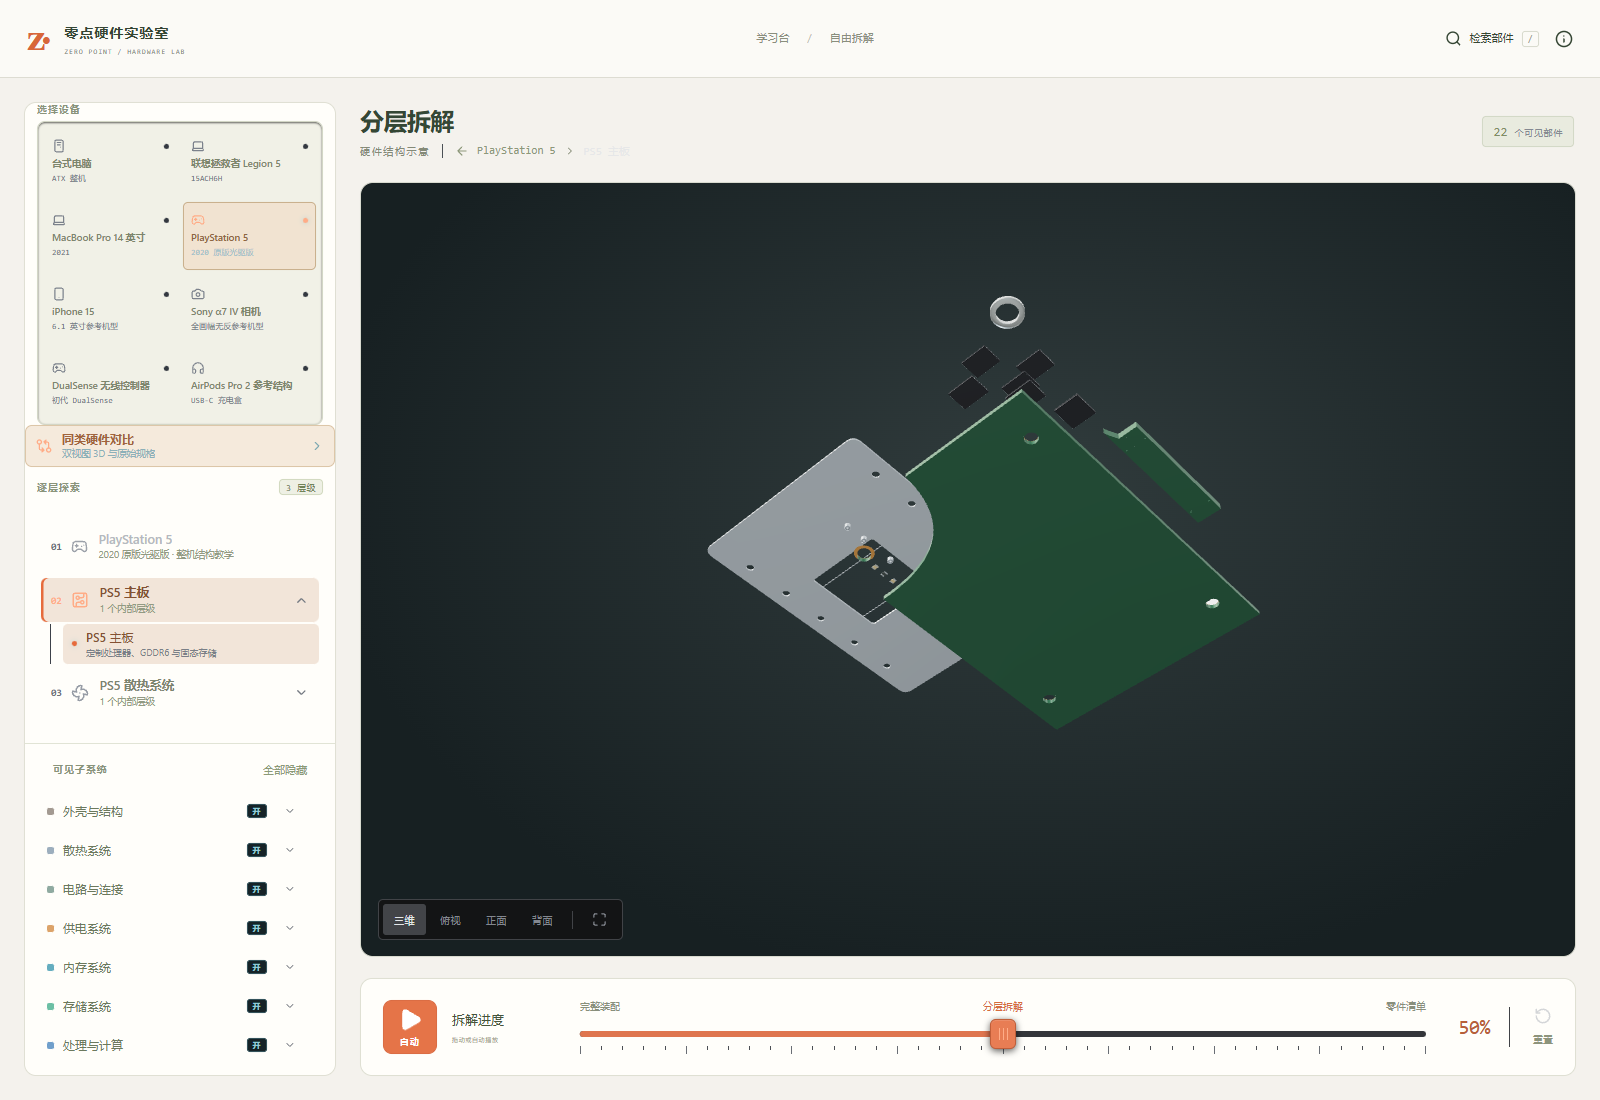
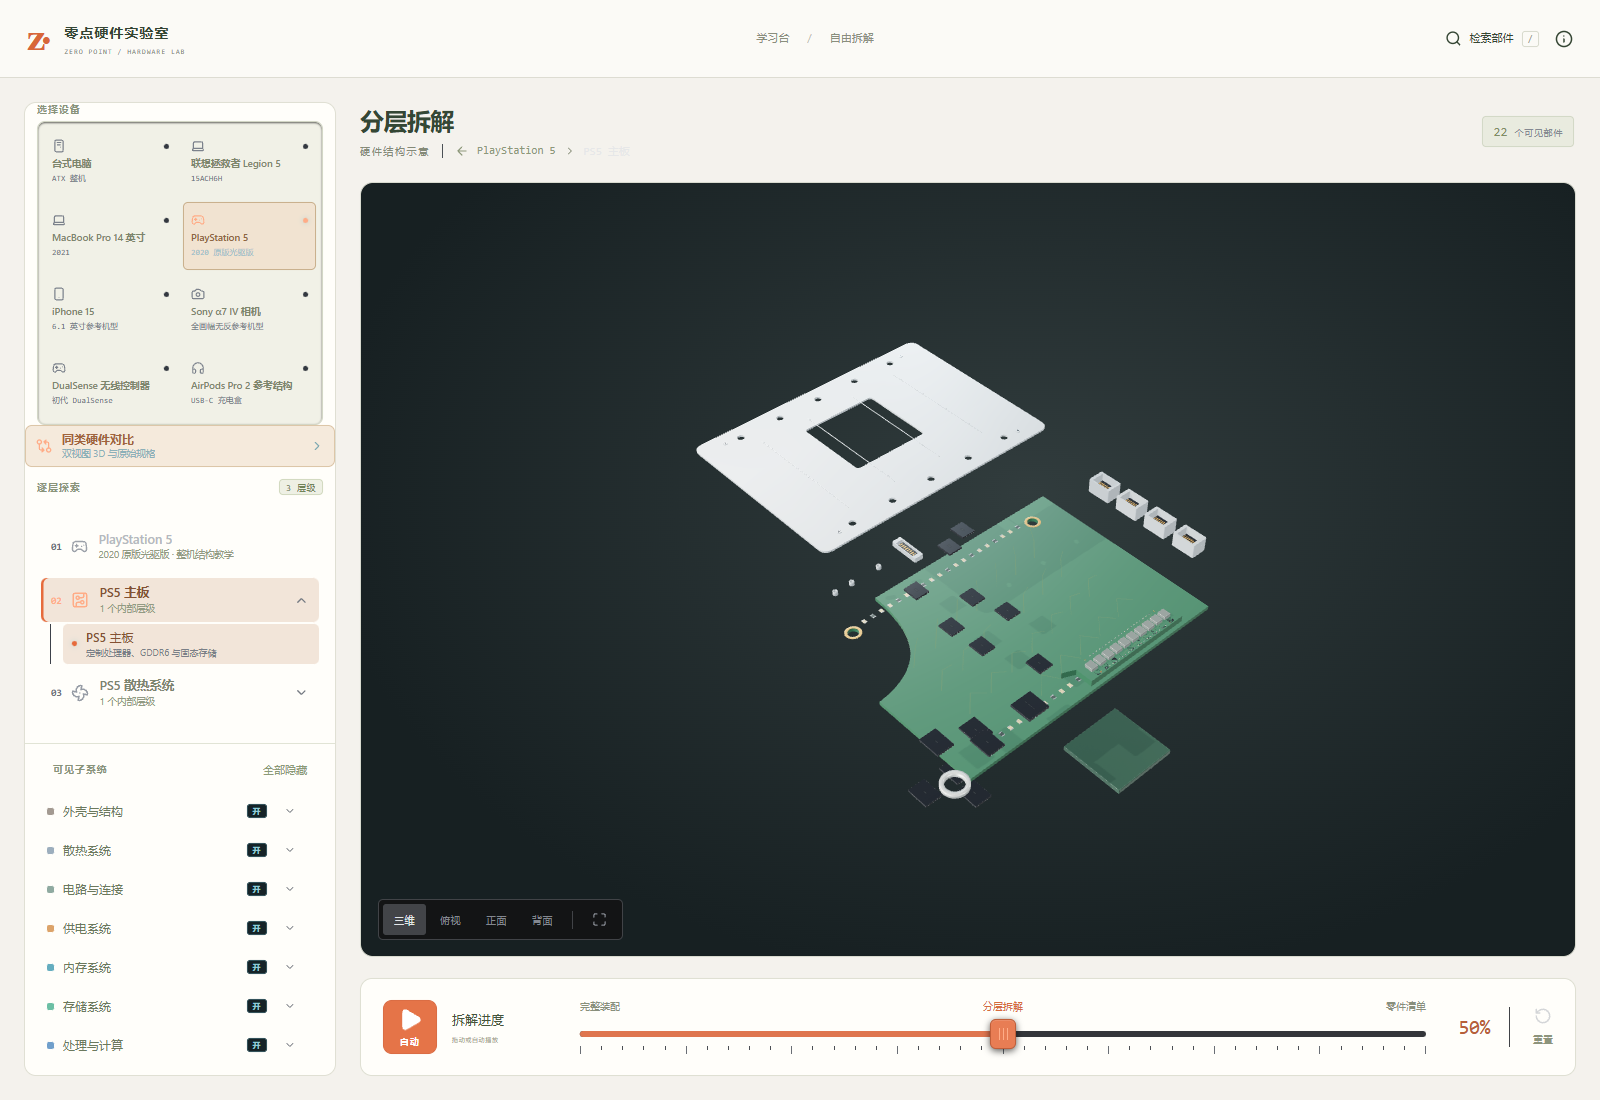
fix: keep double-sided PS5 components outside their PCB during disassembly

Changed region(s): [[0.4375, 0.3091, 0.7812, 0.7418], [0.625, 0.2473, 0.6562, 0.3091], [0.6875, 0.3709, 0.7188, 0.4018]]

diff --git a/lib/digital/refinements.ts b/lib/digital/refinements.ts
@@ -69,17 +69,19 @@ export function refineDigitalDefinitions(definitions: Definition[]) {
   });
   edit('ps5', 'cooling', { pos: [-34, -25, 25] });
   edit('ps5', 'frame', { shape: 'frame', size: [94, 360, 235] });
-  get('ps5board').camera = { direction: [1, -1.6, 1.1], padding: 1.1 };
+  get('ps5board').camera = { direction: [1.2, 1.5, 1.1], padding: 1.1 };
   edit('ps5cooling', 'coldplate', { pos: [-17, 28, 46.5] });
   edit('ps5cooling', 'interface', { pos: [-17, 29.3, 46.5] });
   edit('ps5cooling', 'pipes', { pos: [0, 26, 0] });
   edit('ps5board', 'pcb', {
+    delta: [0, 0, 0],
     description:
       '依照原版主板照片绘制带风扇避让缺口的板形、铜箔接地边界、安装孔与接口边缘。微型走线仅为视觉近似。',
   });
   edit('ps5board', 'apu', {
     size: [52, 4, 52],
     pos: [-12, -5, 4],
+    delta: [170, -45, 0],
     rotation: [Math.PI, 0, 0],
     description:
       '绿色封装基板上的裸露芯片与四周支持件，接触面通过液态金属连接散热器。没有把它画成桌面 CPU 的金属顶盖。',
@@ -88,7 +90,7 @@ export function refineDigitalDefinitions(definitions: Definition[]) {
     name: 'GDDR6 内存封装 1',
     size: [14, 1.6, 12],
     pos: [-48, 3, -20],
-    delta: [-45, -25, -10],
+    delta: [-45, 25, -10],
     description: '8 个 2 GB GDDR6 封装中的一个，位于主板背面；合计 16 GB。',
     quantity: '1 颗（同组共 8 颗）',
   });
@@ -109,7 +111,7 @@ export function refineDigitalDefinitions(definitions: Definition[]) {
       'chip',
       [14, 1.6, 12],
       pos,
-      [(i % 2 ? 1 : -1) * 35, -25, i * 4 - 12],
+      [(i % 2 ? 1 : -1) * 35, 25, i * 4 - 12],
       '主板背面独立内存封装；8 颗 2 GB GDDR6 组成 16 GB 统一内存。',
       'Memory',
       '#171b20',

diff --git a/tests/digital.test.ts b/tests/digital.test.ts
@@ -111,6 +111,22 @@ await test('original PS5 has eight GDDR6 packages, six NAND packages on two face
   assert.ok(fan.max.y<=cover.max.y,'fan must stay below the exterior top');
 });
 
+await test('PS5 packages move away from their own PCB face throughout dissection',()=>{
+  const model=models.get('ps5board')!;
+  const definition=digitalDefinitions.find(d=>d.id==='ps5board')!;
+  try {
+    const scratch=new ModelStageScratch();
+    for(const amount of [0,.1,.25,.5]) {
+      for(const piece of model.pieces) applyPiecePose(piece,'ps5board',amount,scratch);
+      const pcb=new T.Box3().setFromObject(model.pieces.find(p=>p.concept==='ps5board-pcb')!.object);
+      for(const part of definition.parts.filter(p=>p.id==='apu'||p.id.startsWith('memory')||p.id.startsWith('nand'))) {
+        const box=new T.Box3().setFromObject(model.pieces.find(p=>p.concept===`ps5board-${part.id}`)!.object);
+        assert.ok(part.pos[1]>0 ? box.min.y>pcb.max.y : box.max.y<pcb.min.y,`${part.id} crosses PCB at ${amount}`);
+      }
+    }
+  } finally {for(const piece of model.pieces) applyPiecePose(piece,'ps5board',0,new ModelStageScratch());}
+});
+
 await test('iPhone rear-view landmarks match Apple and internal flex stays beneath the glass',()=>{
   const phone=digitalDefinitions.find(d=>d.id==='phone')!;
   const part=(id:string)=>phone.parts.find(p=>p.id===id)!;

diff --git a/docs/VALIDATION.md b/docs/VALIDATION.md
@@ -4,9 +4,9 @@
 
 ## 当前版本：拆解资料驱动的模型重建
 
-- 单元与几何检查：123 / 123 通过，0 失败、0 跳过；lint 与 TypeScript 通过。
+- 单元与几何检查：124 / 124 通过，0 失败、0 跳过；lint 与 TypeScript 通过。
 - 构建与入口预算通过：入口约 72.3 KiB gzip，仍低于未修改的 220 KiB 预算。Three.js 运行时分块仍有体积提示，没有通过放宽预算掩盖。
-- 新增结构回归：PS5 两面封装与主要组件间隔、风扇包络、iPhone 底部组件位置和背盖下排线、耳机盒盖间隙、线段与网格资源释放。
+- 新增结构回归：PS5 双面封装向各自板面外侧展开、主要组件间隔、风扇包络、iPhone 底部组件位置和背盖下排线、耳机盒盖间隙、线段与网格资源释放。
 - 浏览器流程：14 个数码层级 × 3 姿态、5 条新路径 / 15 个实验、部件资料/隐藏/恢复、层级进入/返回、分类与移动端检查通过，无 pageerror。原有学习流程（内存课程、持久化、错误重试、复习和重置）也通过。
 - 查看装配与拆解截图后继续收口了 PS5 外盖、框架与风扇位置，手柄前缘和摇杆，手机开盖遮挡，相机握柄及板件朝向。
 - 当前为 8 台参考设备、82 层级、741 条资料。143 个数码层级组件定义仍是主要总成与细分部件；没有宣称完整复现每一颗微型无源元件。

diff --git a/docs/DEVELOPMENT.md b/docs/DEVELOPMENT.md
@@ -77,4 +77,5 @@
 2. [x] 重写五类设备主要几何：曲面薄壁壳体、开孔、异形 PCB、双面封装、连接器、排线、压盖、触觉与扳机机构、充电盒托盘及电芯。节点提交 cc3ae10。
 3. [x] 修正手机关键位置、PS5 散热面与风扇包络、相机板件朝向和镜头光圈；保留分享链接与学习记录。
 4. [x] 通过画面检查继续修正壳体遮挡、外盖边界、手柄前缘和耳机盒盖间隙；补充线段资源释放及回归。
-5. [x] 目录变为 741 条资料；123 项测试通过，类型、lint、构建、体积预算通过。详细验证与精度边界见 VALIDATION.md 和 DIGITAL-DEVICES.md。
+5. [x] 目录变为 741 条资料；124 项测试通过，类型、lint、构建、体积预算通过。详细验证与精度边界见 VALIDATION.md 和 DIGITAL-DEVICES.md。
+- [x] 最终修正双面主板展开方向与默认视角；新增板面穿越回归，124 项测试通过，0% / 50% / 100% 主板浏览器检查通过。

diff --git a/README.md b/README.md
@@ -102,7 +102,7 @@ npm run build
 npm run size
 ```
 
-已通过 **123 项测试**。另提供浏览器验收，覆盖学习流程、进度持久化、新设备拆解、部件交互与移动布局。先运行生产预览，再在另一个终端执行：
+已通过 **124 项测试**。另提供浏览器验收，覆盖学习流程、进度持久化、新设备拆解、部件交互与移动布局。先运行生产预览，再在另一个终端执行：
 
 ```bash
 node scripts/learning-smoke.mjs
